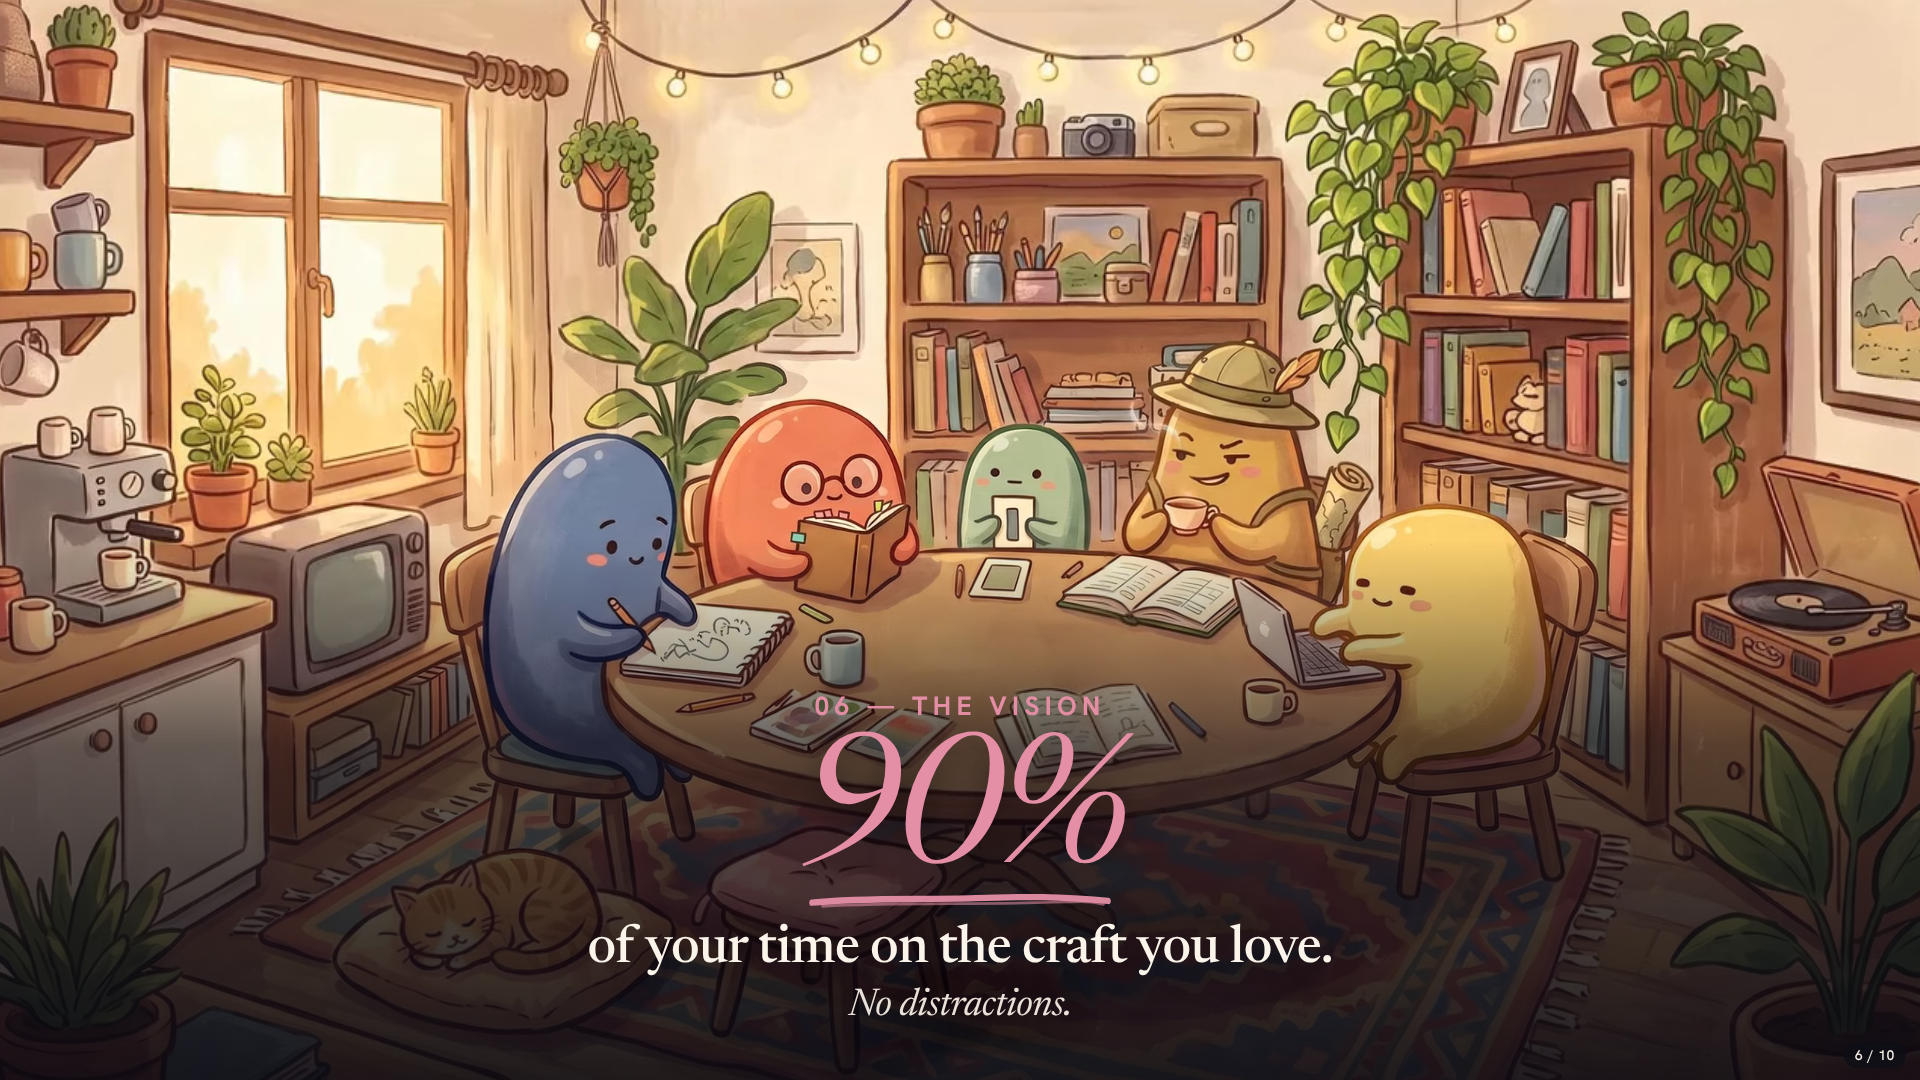
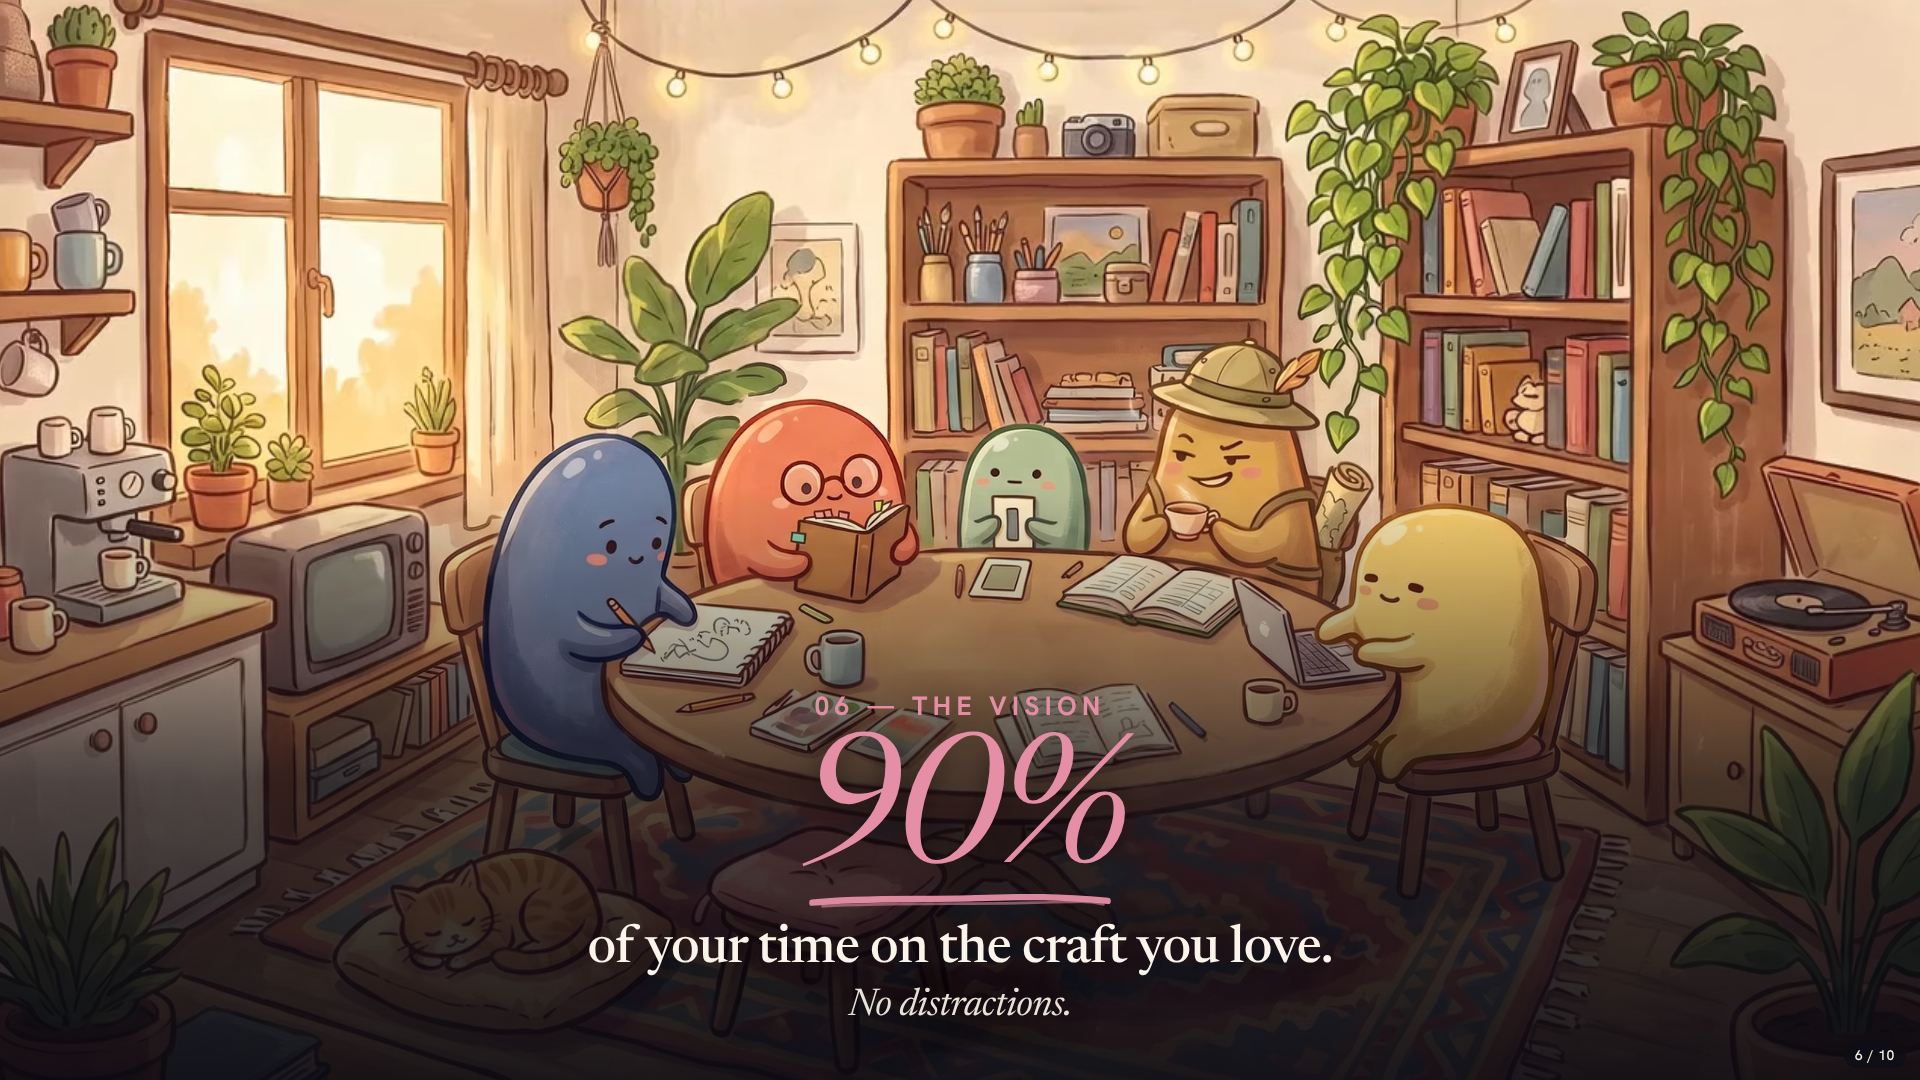
Talk deck: the vision scrim starts higher and darker, and the 90% and its kicker get a soft shadow
Claude-Session: https://claude.ai/code/session_013ka3w6WgnwagUwgtJYzTr8

diff --git a/public/slides/talk.css b/public/slides/talk.css
@@ -186,8 +186,9 @@ body.print .counter { display: none; }
 :is(.live, .poster) > .live-painting { position: absolute; left: -6px; top: 0; width: 1612px; height: 900px; border: 0; z-index: 0; pointer-events: none; }
 :is(.live, .poster) > .live-toys { position: absolute; left: -6px; top: 0; width: 1612px; height: 900px; z-index: 1; }
 :is(.live, .poster) > .live-toys .pi-sky { display: none; }   /* no UI: the time pill stays off on stage */
-.live > .live-shade { position: absolute; left: 0; right: 0; bottom: 0; height: 50%; z-index: 1; pointer-events: none;
-  background: linear-gradient(transparent, rgba(10, 10, 18, .62) 38%, rgba(10, 10, 18, .9)); }
+.live > .live-shade { position: absolute; left: 0; right: 0; bottom: 0; height: 55%; z-index: 1; pointer-events: none;
+  background: linear-gradient(transparent, rgba(10, 10, 18, .7) 50%, rgba(10, 10, 18, .92)); }
+.live .giant, .live .kicker { text-shadow: 0 2px 24px rgba(20, 16, 12, .7); }
 .live > .overlay { position: relative; z-index: 2; pointer-events: none; margin-bottom: 44px; text-shadow: 0 4px 30px rgba(0, 0, 0, .55); }
 .live .giant { font-size: 150px; margin: 10px 0 0; line-height: .95; }
 .live .line { margin-top: 14px; font-size: 44px; }
